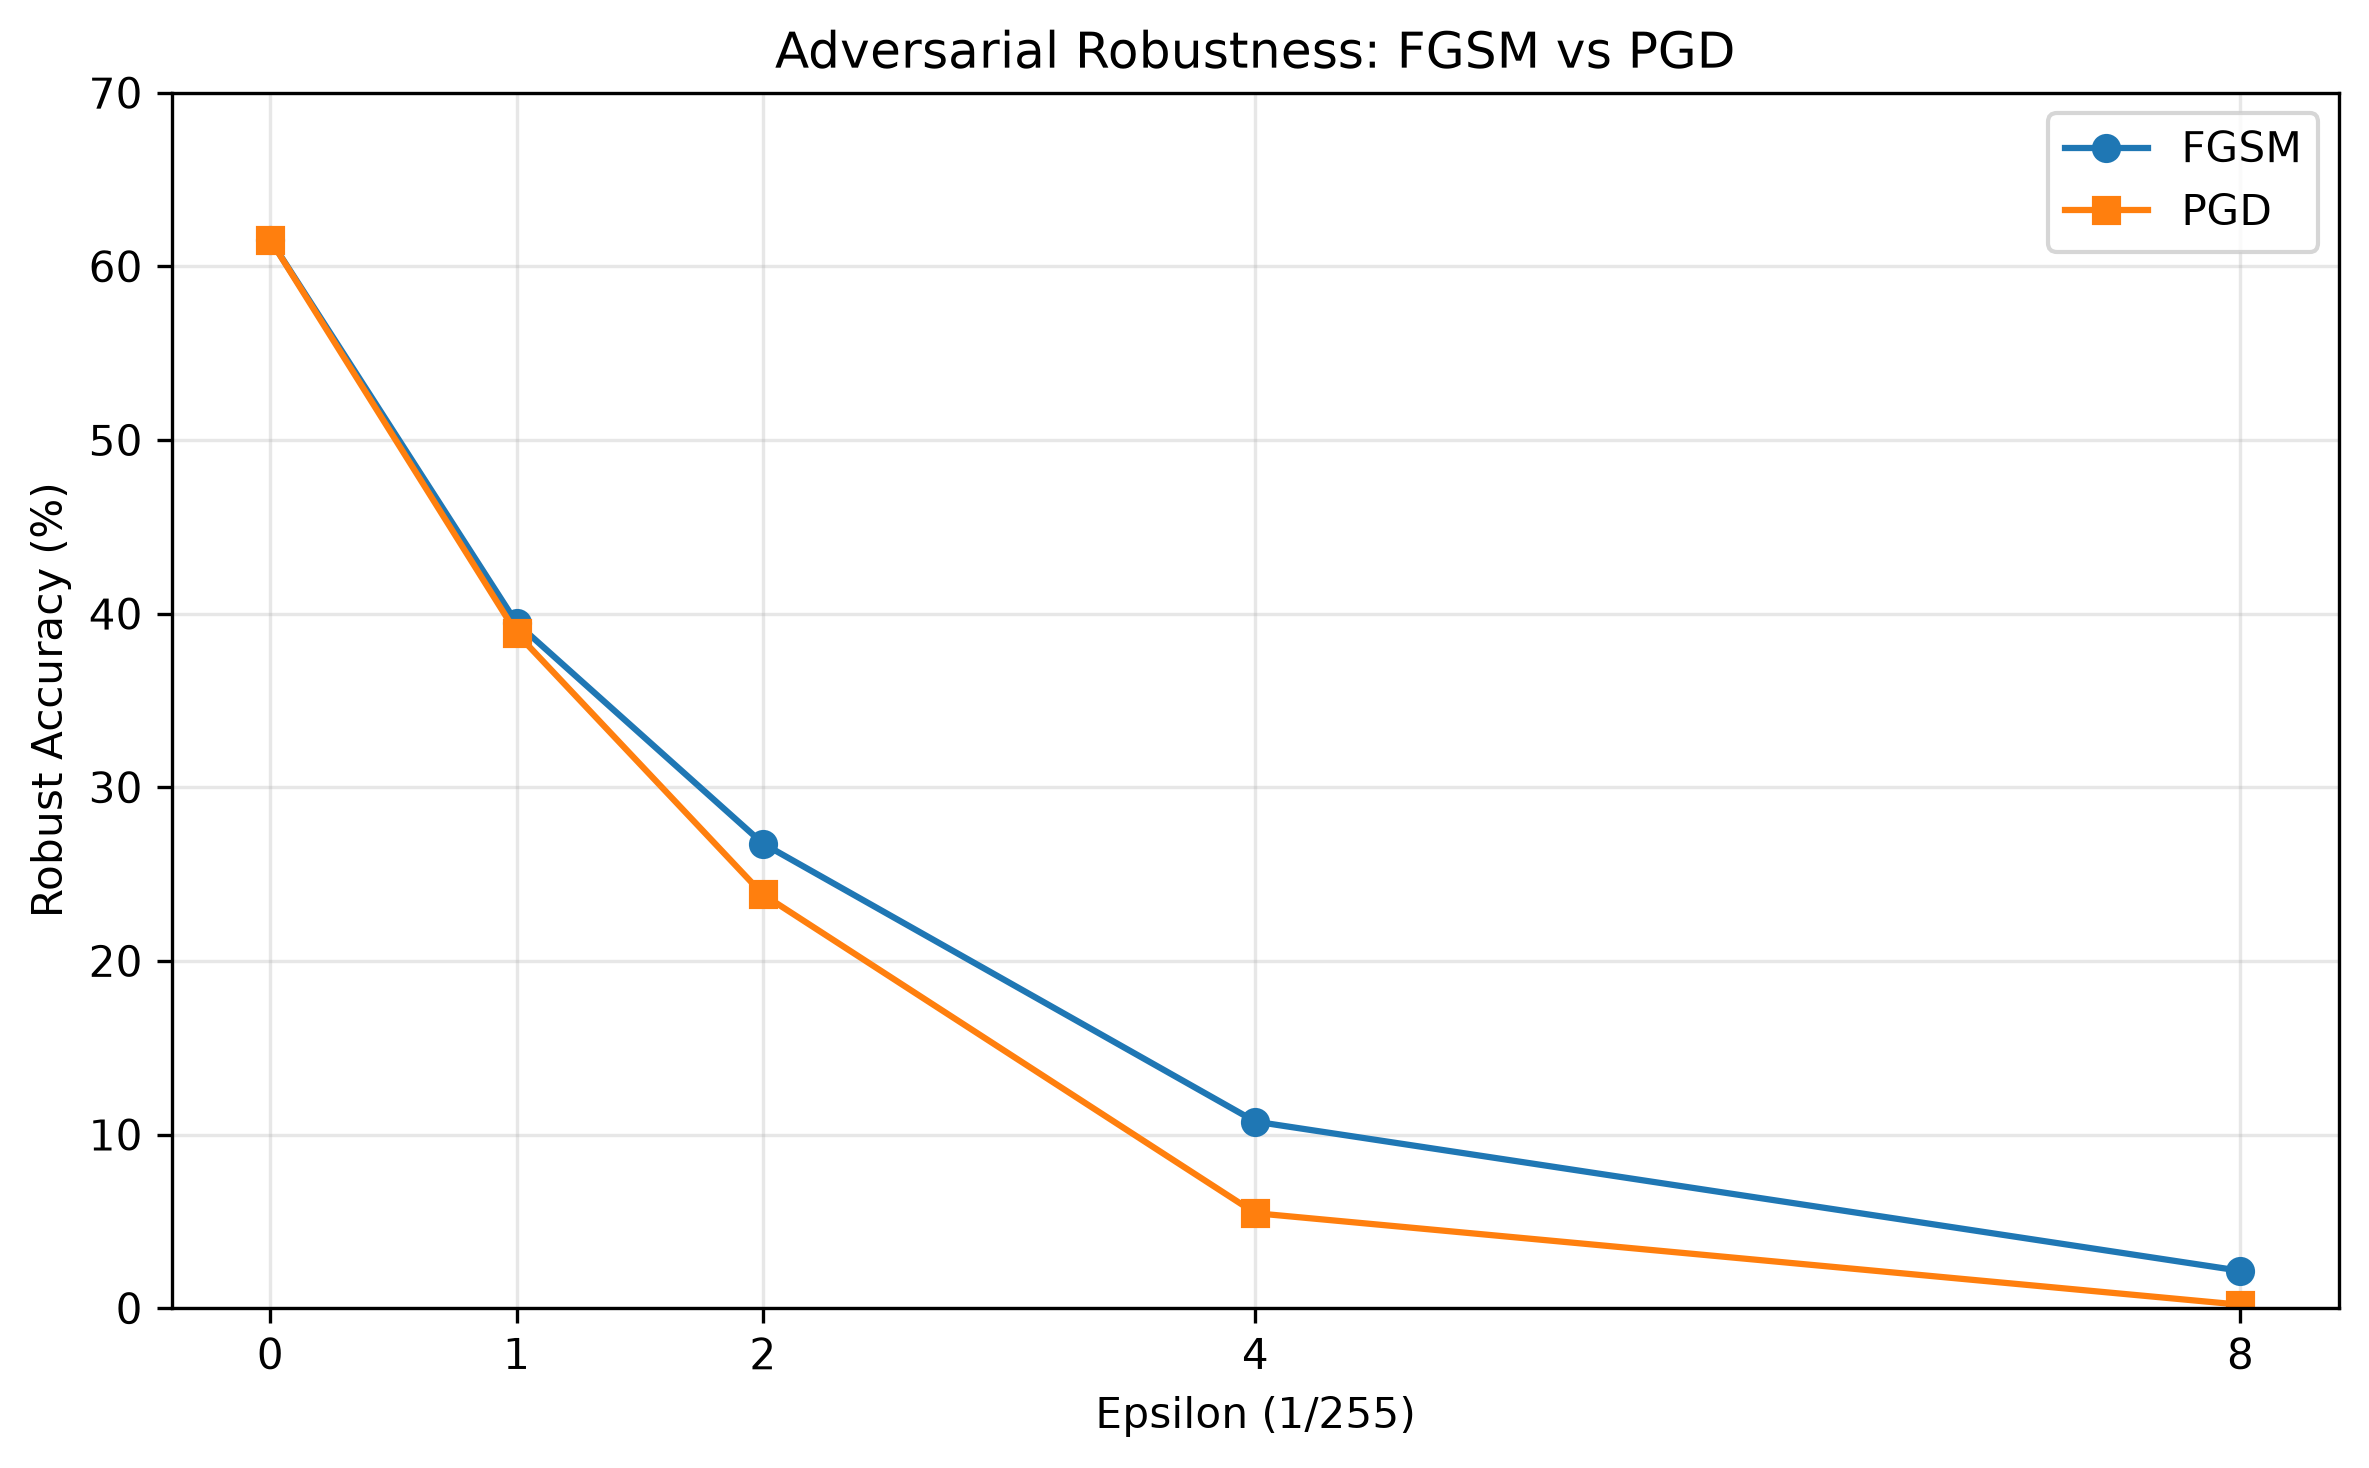
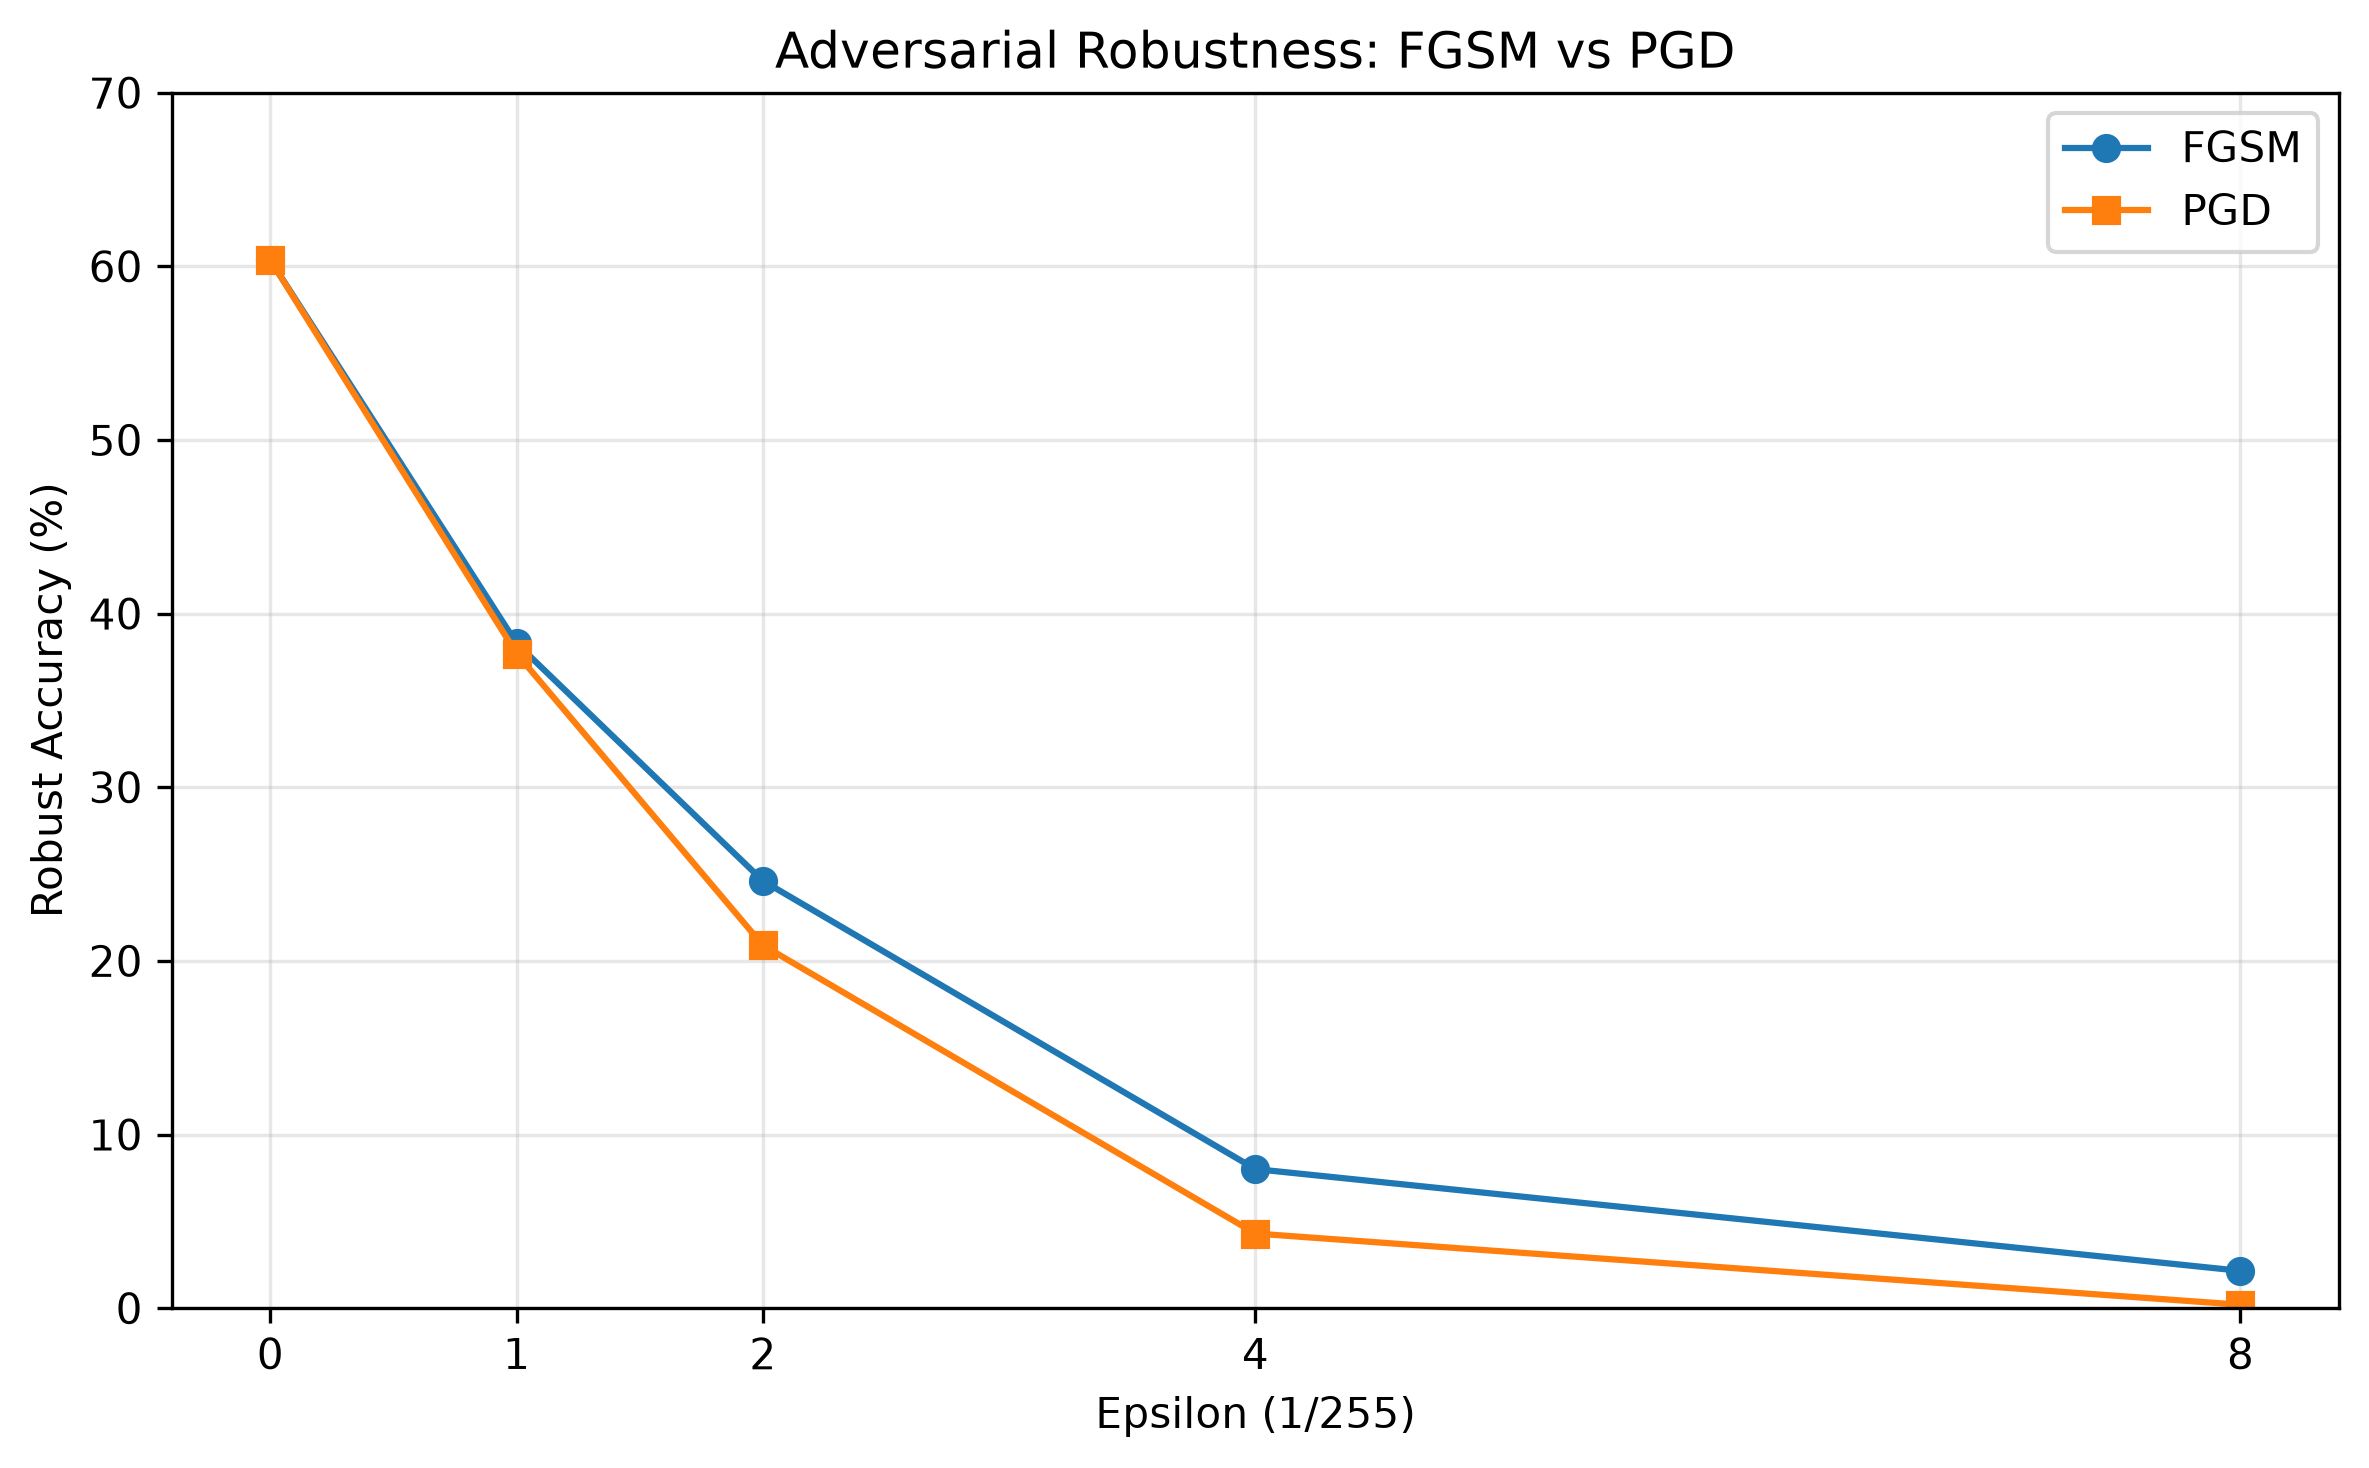
Ignore additional model checkpoints

Changed region(s): [[0.1562, 0.2759, 0.9371, 0.889], [0.0937, 0.1533, 0.1562, 0.2759]]

diff --git a/src/experiment.py b/src/experiment.py
@@ -203,91 +203,73 @@ def compare_attack_loss(epsilon_pixel, max_batches):
         "mean_pgd_loss": pgd_loss / total_images,
 }
 
-# epsilons = [0, 1, 2, 4, 8]
+epsilons = [0, 1, 2, 4, 8]
 
-# results = []
+results = []
 
-# for eps in epsilons:
+for eps in epsilons:
 
-#     result1 = evaluate_epsilon(
-#         epsilon_pixel=eps,
-#         max_batches=8
-#     )
+    result1 = evaluate_epsilon(
+        epsilon_pixel=eps,
+        max_batches=8
+    )
 
-#     result2 = compare_attack_loss(
-#         epsilon_pixel=eps,
-#         max_batches=8
-#     )
+    result2 = compare_attack_loss(
+        epsilon_pixel=eps,
+        max_batches=8
+    )
   
-#     combined_result = {**result1, **result2}
-#     results.append(combined_result)
+    combined_result = {**result1, **result2}
+    results.append(combined_result)
     
-#     print(
-#         f"Epsilon = {eps}/255, "
-#         f"Clean = {result1['clean_acc']:.4f}, "
-#         f"FGSM = {result1['fgsm_acc']:.4f}, "
-#         f"PGD = {result1['pgd_acc']:.4f}, "
-#         f"Clean_loss = {result2['mean_clean_loss']:.4f}, "
-#         f"FGSM_loss = {result2['mean_fgsm_loss']:.4f}, "
-#         f"PGD_loss = {result2['mean_pgd_loss']:.4f}"
-#     )
+    print(
+        f"Epsilon = {eps}/255, "
+        f"Clean = {result1['clean_acc']:.4f}, "
+        f"FGSM = {result1['fgsm_acc']:.4f}, "
+        f"PGD = {result1['pgd_acc']:.4f}, "
+        f"Clean_loss = {result2['mean_clean_loss']:.4f}, "
+        f"FGSM_loss = {result2['mean_fgsm_loss']:.4f}, "
+        f"PGD_loss = {result2['mean_pgd_loss']:.4f}"
+    )
 
 
-# eps_values = [r["epsilon"] for r in results]
+eps_values = [r["epsilon"] for r in results]
 
-# fgsm_accs = [r["fgsm_acc"] * 100 for r in results]
+fgsm_accs = [r["fgsm_acc"] * 100 for r in results]
 
-# pgd_accs = [r["pgd_acc"] * 100 for r in results]
+pgd_accs = [r["pgd_acc"] * 100 for r in results]
 
-# plt.figure(figsize=(8, 5))
+plt.figure(figsize=(8, 5))
 
-# plt.plot(
-#     eps_values,
-#     fgsm_accs,
-#     marker="o",
-#     label="FGSM"
-# )
-
-# plt.plot(
-#     eps_values,
-#     pgd_accs,
-#     marker="s",
-#     label="PGD"
-# )
-
-# plt.xlabel("Epsilon (1/255)")
-# plt.ylabel("Robust Accuracy (%)")
-
-# plt.title("Adversarial Robustness: FGSM vs PGD")
-
-# plt.xticks(eps_values)
-# plt.ylim(0, 70)
-
-# plt.grid(True, alpha=0.3)
-# plt.legend()
-
-# plt.tight_layout()
-# plt.savefig(
-#     "robustness_curve.png",
-#     dpi=300,
-#     bbox_inches="tight"
-# )
-# plt.show()
-
-images, labels = next(iter(test_loader))
-
-with torch.no_grad():
-    preds_A = model(images).argmax(dim=1)
-    preds_B = model_B(images).argmax(dim=1)
-
-print("First 10 labels:", labels[:10].tolist())
-
-print(
-    "Model A correct:",
-    (preds_A == labels).sum().item()
+plt.plot(
+    eps_values,
+    fgsm_accs,
+    marker="o",
+    label="FGSM"
 )
 
-print(
-    "Model B correct:",
-    (preds_B == labels).sum().item()
+plt.plot(
+    eps_values,
+    pgd_accs,
+    marker="s",
+    label="PGD"
 )
+
+plt.xlabel("Epsilon (1/255)")
+plt.ylabel("Robust Accuracy (%)")
+
+plt.title("Adversarial Robustness: FGSM vs PGD")
+
+plt.xticks(eps_values)
+plt.ylim(0, 70)
+
+plt.grid(True, alpha=0.3)
+plt.legend()
+
+plt.tight_layout()
+plt.savefig(
+    "robustness_curve.png",
+    dpi=300,
+    bbox_inches="tight"
+)
+plt.show()
